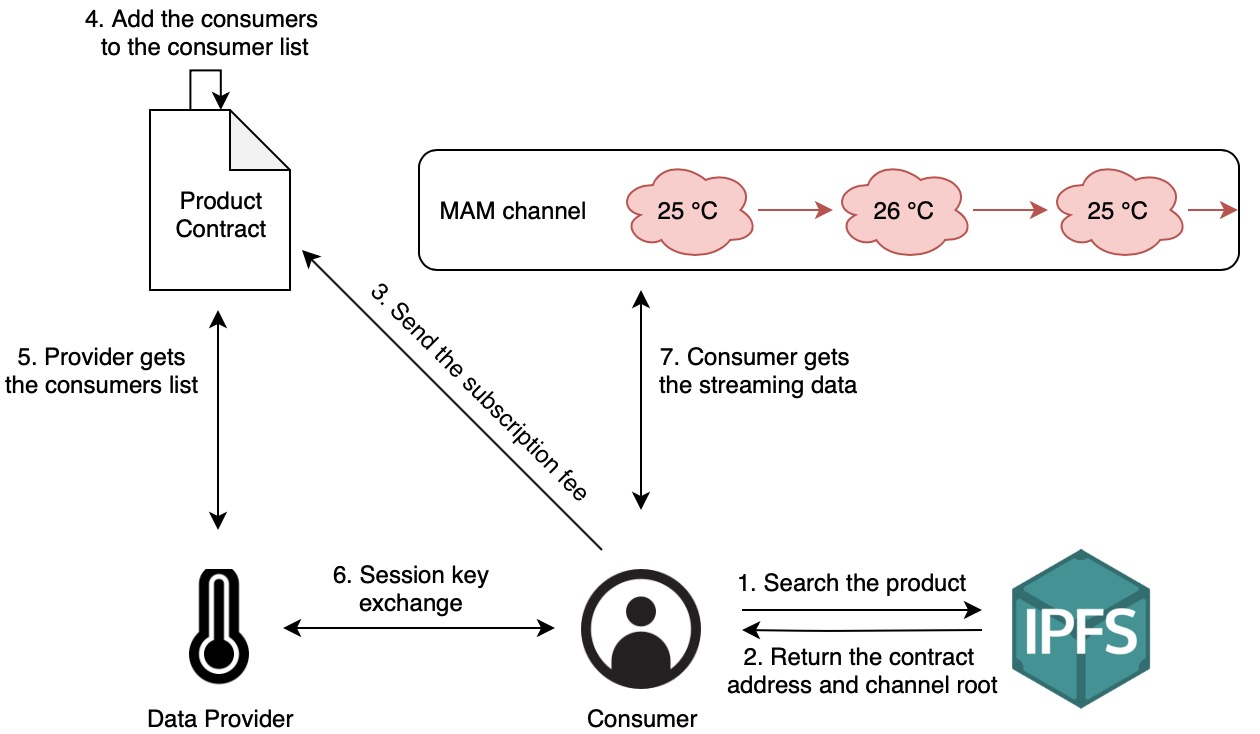
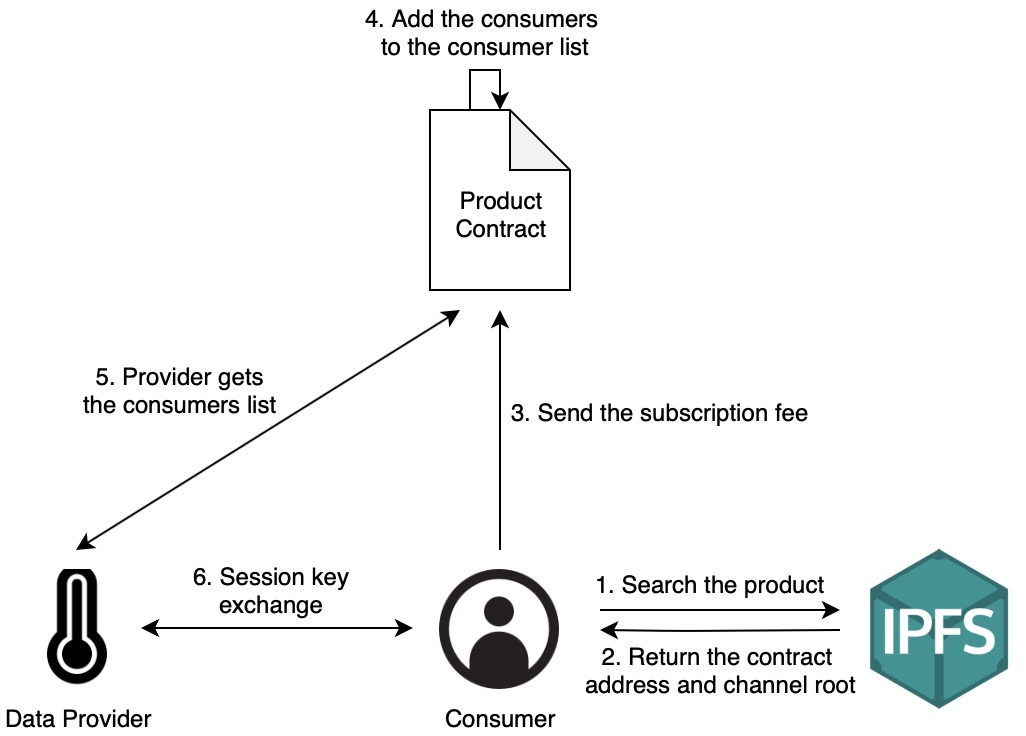
Update diagrams

diff --git a/paper.tex b/paper.tex
@@ -97,7 +97,7 @@ Brokers represent data providers and consumers to do computing tasks since broke
 \begin{figure}[h]
     \centering
     \includegraphics[width=0.4\textwidth]{system_design}
-    \caption{System Design.}
+    \caption{The system design of a decentralized architecture which consist of a registrar, data providers, consumers and brokers.}
     \label{fig:system_design}
 \end{figure}
 
